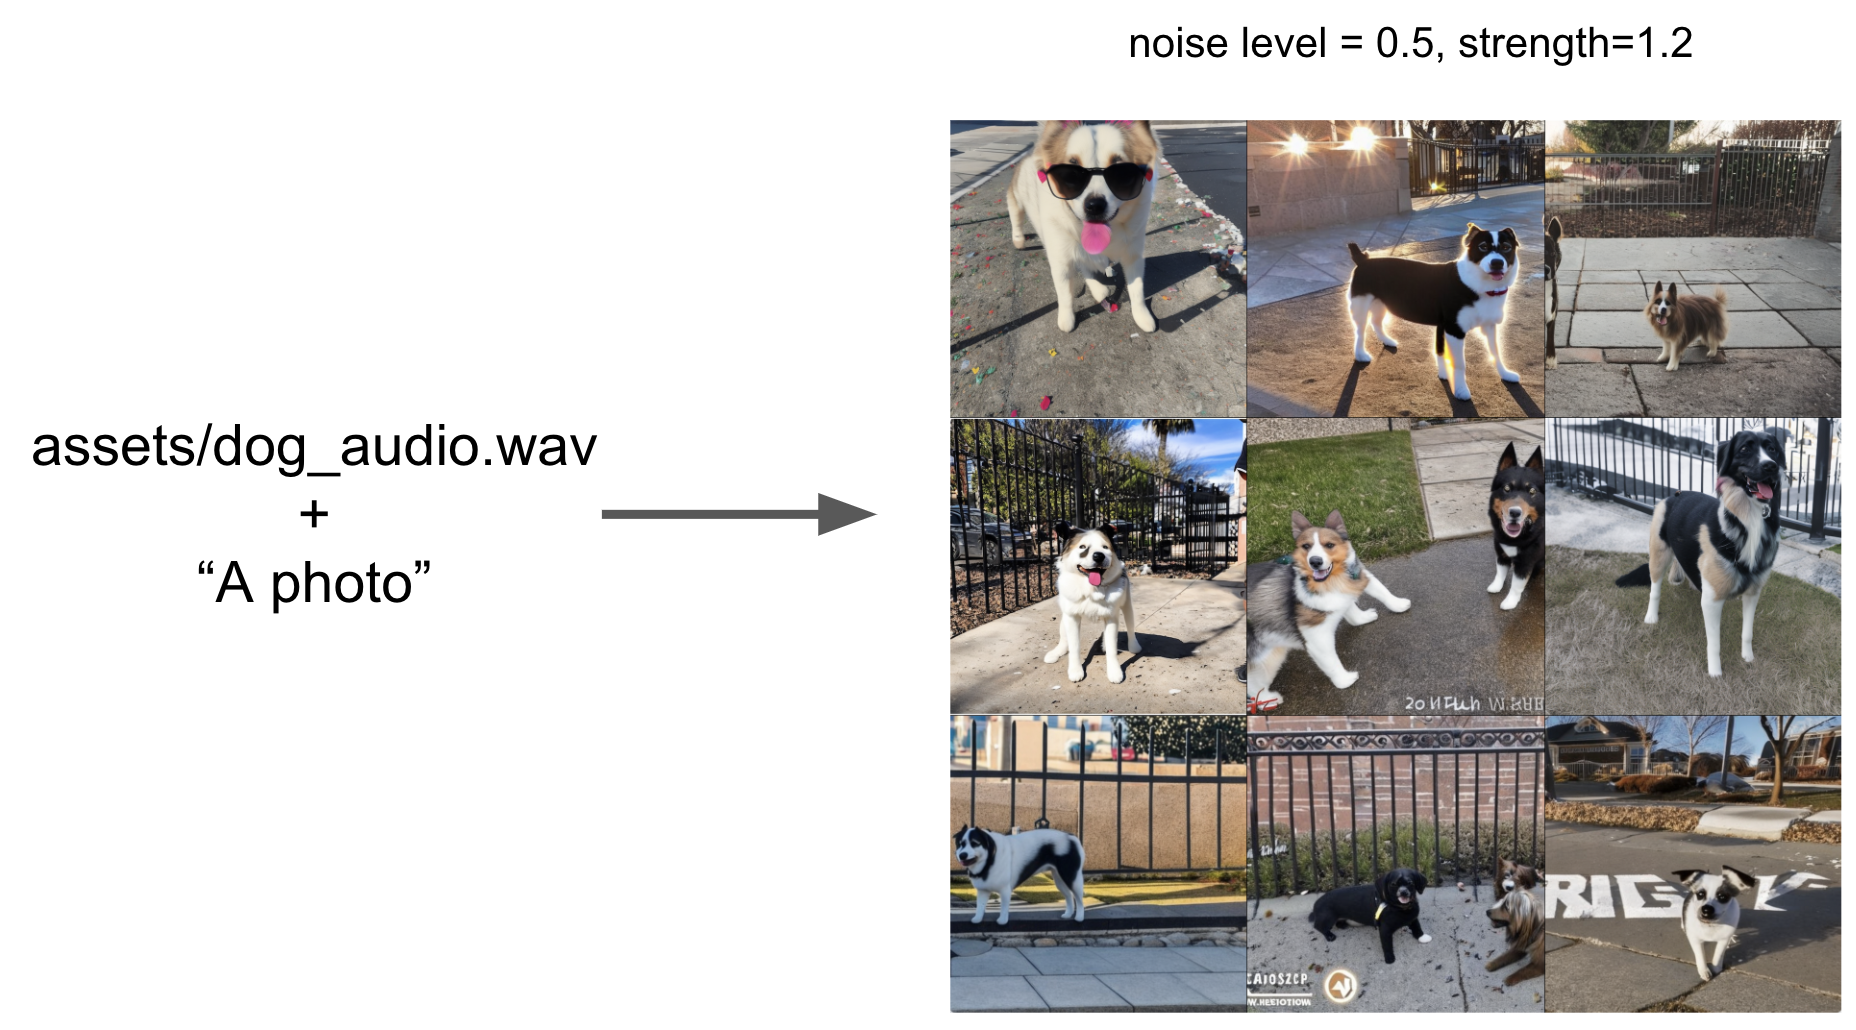
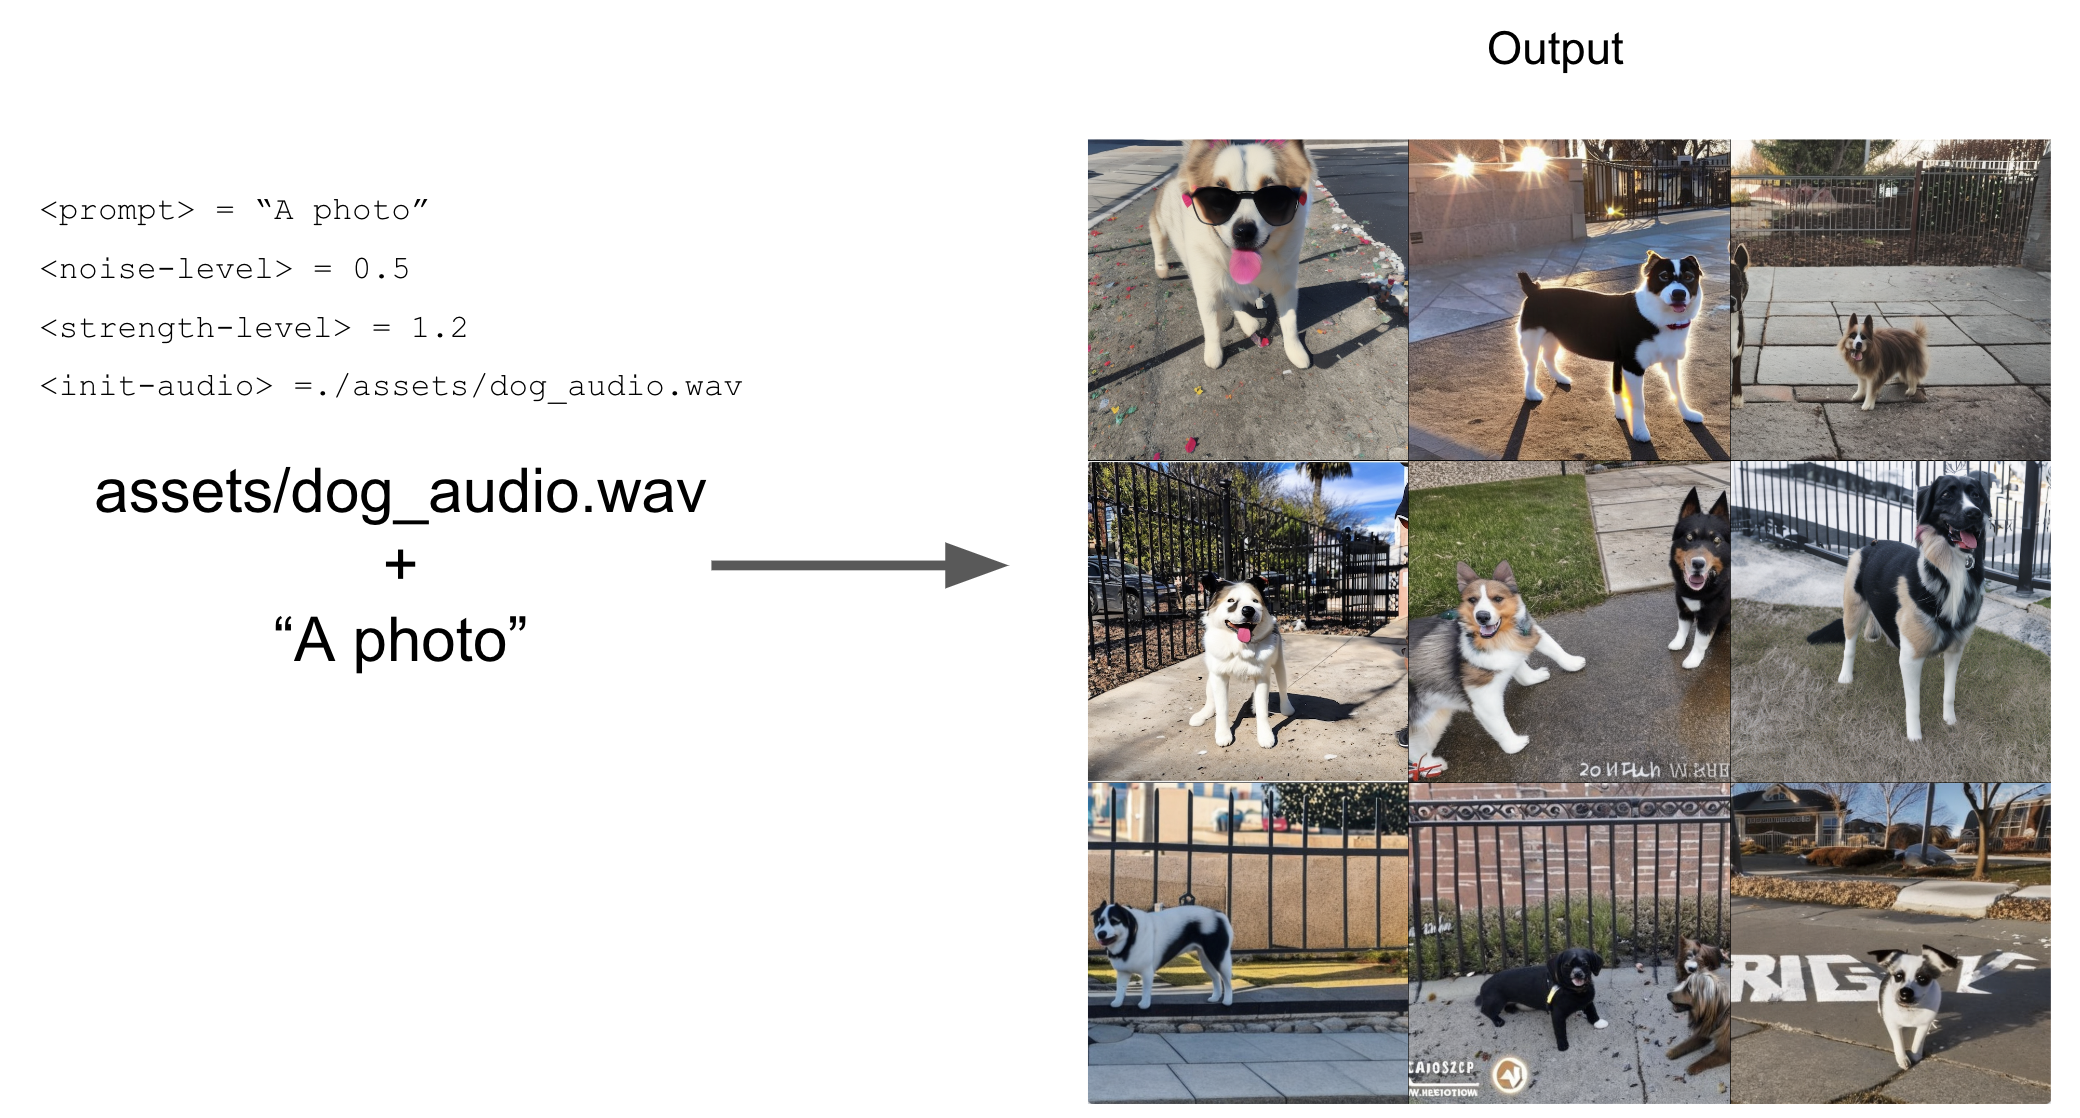
update

diff --git a/README.md b/README.md
@@ -19,7 +19,7 @@ wget https://dl.fbaipublicfiles.com/imagebind/imagebind_huge.pth;
 python main_bind.py --prompt <prompt> --device cuda --modality image \
 --H 768 --W 768 \
 --config <init-config> --ckpt <init-ckpt> \
---noise-level <noise-level> --init <init-img>
+--noise-level <noise-level> --init <init-img> --strength <strength-level>
 ```
 ![t2i](assets/example_img2img.png)
 ![t2i](assets/example_img2img2.png)
